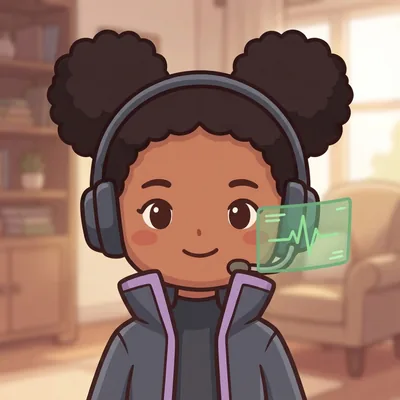
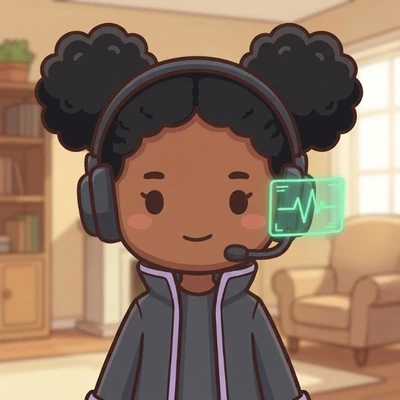
Agentes 2 a 5 no estilo C, promo 4 com o tom de pele original e level 3 refeito
Claude-Session: https://claude.ai/code/session_01Bsh6pjGxG4aLmpNmfdfPHX

diff --git a/index.html b/index.html
@@ -18,8 +18,8 @@
     <meta name="apple-mobile-web-app-status-bar-style" content="black-translucent" />
     <meta name="apple-mobile-web-app-title" content="Algoritimando" />
     <!-- fontes guardadas no projeto: o jogo funciona sem internet -->
-    <link rel="stylesheet" href="fontes/fontes.css?v=202611260430" />
-    <link rel="stylesheet" href="style.css?v=202611260430" />
+    <link rel="stylesheet" href="fontes/fontes.css?v=202611260500" />
+    <link rel="stylesheet" href="style.css?v=202611260500" />
   </head>
   <body>
     <div id="stage">
@@ -916,23 +916,23 @@
          das cartas numa região, explicações de erro em outra -->
     <div class="sr leitor-avisos" aria-live="polite"></div>
     <div class="sr leitor-explicacao" aria-live="polite"></div>
-    <script src="js/versao.js?v=202611260430"></script>
-    <script src="js/motor.js?v=202611260430"></script>
-    <script src="js/comum.js?v=202611260430"></script>
-    <script src="js/situacoes.js?v=202611260430"></script>
-    <script src="js/em-progresso.js?v=202611260430"></script>
-    <script src="js/som.js?v=202611260430"></script>
-    <script src="js/progresso.js?v=202611260430"></script>
-    <script src="js/perfil.js?v=202611260430"></script>
-    <script src="js/arrasto.js?v=202611260430"></script>
-    <script src="js/conclusao.js?v=202611260430"></script>
-    <script src="js/montagem.js?v=202611260430"></script>
-    <script src="js/jogo.js?v=202611260430"></script>
+    <script src="js/versao.js?v=202611260500"></script>
+    <script src="js/motor.js?v=202611260500"></script>
+    <script src="js/comum.js?v=202611260500"></script>
+    <script src="js/situacoes.js?v=202611260500"></script>
+    <script src="js/em-progresso.js?v=202611260500"></script>
+    <script src="js/som.js?v=202611260500"></script>
+    <script src="js/progresso.js?v=202611260500"></script>
+    <script src="js/perfil.js?v=202611260500"></script>
+    <script src="js/arrasto.js?v=202611260500"></script>
+    <script src="js/conclusao.js?v=202611260500"></script>
+    <script src="js/montagem.js?v=202611260500"></script>
+    <script src="js/jogo.js?v=202611260500"></script>
     <!-- a cópia do certificado que vai para a impressora (final.js) -->
     <div id="impressao" aria-hidden="true"></div>
-    <script src="js/album.js?v=202611260430"></script>
-    <script src="js/final.js?v=202611260430"></script>
-    <script src="js/app.js?v=202611260430"></script>
-    <script src="js/pwa.js?v=202611260430"></script>
+    <script src="js/album.js?v=202611260500"></script>
+    <script src="js/final.js?v=202611260500"></script>
+    <script src="js/app.js?v=202611260500"></script>
+    <script src="js/pwa.js?v=202611260500"></script>
   </body>
 </html>

diff --git a/sw.js b/sw.js
@@ -2,7 +2,7 @@
    rode "node ferramentas/gerar-sw.js" depois de mudar o ?v= do index.html. */
 'use strict';
 
-const VERSAO = '202611260430';
+const VERSAO = '202611260500';
 const CACHE = 'algoritimando-' + VERSAO;
 const ARQUIVOS = [
   "./",
@@ -18,7 +18,7 @@ const ARQUIVOS = [
   "audio/efeitos/selo.mp3",
   "audio/efeitos/vitoria.mp3",
   "audio/musica-tema.mp3",
-  "fontes/fontes.css?v=202611260430",
+  "fontes/fontes.css?v=202611260500",
   "fontes/fredoka.woff2",
   "fontes/nunito.woff2",
   "img/agente-afro-menina.webp",
@@ -284,24 +284,24 @@ const ARQUIVOS = [
   "img/win7.webp",
   "img/win8.webp",
   "index.html",
-  "js/album.js?v=202611260430",
-  "js/app.js?v=202611260430",
-  "js/arrasto.js?v=202611260430",
-  "js/comum.js?v=202611260430",
-  "js/conclusao.js?v=202611260430",
-  "js/em-progresso.js?v=202611260430",
-  "js/final.js?v=202611260430",
-  "js/jogo.js?v=202611260430",
-  "js/montagem.js?v=202611260430",
-  "js/motor.js?v=202611260430",
-  "js/perfil.js?v=202611260430",
-  "js/progresso.js?v=202611260430",
-  "js/pwa.js?v=202611260430",
-  "js/situacoes.js?v=202611260430",
-  "js/som.js?v=202611260430",
-  "js/versao.js?v=202611260430",
+  "js/album.js?v=202611260500",
+  "js/app.js?v=202611260500",
+  "js/arrasto.js?v=202611260500",
+  "js/comum.js?v=202611260500",
+  "js/conclusao.js?v=202611260500",
+  "js/em-progresso.js?v=202611260500",
+  "js/final.js?v=202611260500",
+  "js/jogo.js?v=202611260500",
+  "js/montagem.js?v=202611260500",
+  "js/motor.js?v=202611260500",
+  "js/perfil.js?v=202611260500",
+  "js/progresso.js?v=202611260500",
+  "js/pwa.js?v=202611260500",
+  "js/situacoes.js?v=202611260500",
+  "js/som.js?v=202611260500",
+  "js/versao.js?v=202611260500",
   "manifest.webmanifest",
-  "style.css?v=202611260430"
+  "style.css?v=202611260500"
 ];
 
 // instala: baixa tudo de novo (sem usar o cache do navegador)

diff --git a/js/final.js b/js/final.js
@@ -36,7 +36,7 @@
   const proximo = $('#bFimNext');
 
   // ?v= faz o navegador buscar a imagem nova quando ela muda
-  const V = '?v=202611260430';
+  const V = '?v=202611260500';
 
   /* Os quadros. "reserva": imagem do jogo usada enquanto a do
      quadro não existe. "festa": confete e música de vitória. */

diff --git a/antigos/LEIA-ME.md b/antigos/LEIA-ME.md
@@ -9,6 +9,7 @@ Não entram aqui as partes desativadas **por enquanto** (Área do professor/edit
 | `img/guide.webp`, `img/guide-feliz.webp`, `img/guide-triste.webp` | rosto do Robô-guia no diálogo (o "feliz" era um ovo bege) | versões feitas a partir de `robo-normal`, `robo-feliz` e `robo-preocupado` | 26/11/2026 |
 | `img/av0.webp`, `img/agente-menina.webp` | agente 0 (menina) no desenho antigo, com cinto e estrela | redesenho no estilo C (traço original refinado) | 26/11/2026 |
 | `img/av1.webp`, `img/agente-menino.webp` | agente 1 (menino) no desenho antigo, com acabamento azul | redesenho no estilo C (traço original refinado) | 26/11/2026 |
+| `img/av2.webp` a `img/av5.webp`, `img/agente-afro-menina.webp`, `img/agente-afro-menino.webp`, `img/agente-latina.webp`, `img/agente-latino.webp` | agentes 2 a 5 no desenho antigo (olhos grandes, cerca de 2,5 cabeças) | redesenho no estilo C (traço original refinado) | 26/11/2026 |
 | `img/agente-costas.webp` | agente de costas, corpo inteiro | não é usado em nenhuma tela (o botão secreto usa `av-equipe.webp`) | 04/11/2026 |
 | `img/promo0.webp` a `img/promo5.webp` | cenas de promoção dos agentes 0 a 5 com o robô ovo e o casaco antigo | nova cena no estilo C, com o Robô-guia branco e o uniforme sem cinto | 26/11/2026 |
 | `img/cliente2.webp`, `img/who3.webp` | menina da Escola (mochila) no traço de anime | redesenho no estilo C (traço original refinado) | 26/11/2026 |
